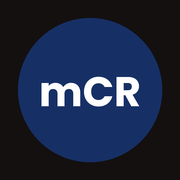
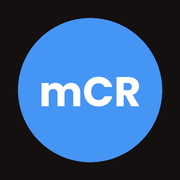
Add files via upload

diff --git a/index.html b/index.html
@@ -21,8 +21,8 @@
     --red-glow: rgba(214, 40, 40, 0.45);
     --amber: #e0a526;
     --amber-glow: rgba(224, 165, 38, 0.5);
-    --green: #22a55b;
-    --green-glow: rgba(34, 165, 91, 0.5);
+    --green: #4595F5; /* 播緊嘅顏色（藍） */
+    --green-glow: rgba(69, 149, 245, 0.5);
     --text: #f5efe9;
     --muted: #9a8f88;
   }
@@ -82,7 +82,7 @@
   }
   .now-label { font-size: 13px; color: var(--muted); display: flex; align-items: center; gap: 8px; }
   .dot { width: 8px; height: 8px; border-radius: 50%; background: var(--muted); }
-  .dot.live { background: var(--green); box-shadow: 0 0 0 4px rgba(34,165,91,0.25); }
+  .dot.live { background: var(--green); box-shadow: 0 0 0 4px rgba(69,149,245,0.25); }
   .dot.wait { background: var(--amber); }
   #nowTitle { font-size: 22px; font-weight: 600; margin: 8px 0 0; line-height: 1.35; }
   #nowTime { font-size: 14px; color: var(--muted); margin-top: 4px; }
@@ -387,7 +387,7 @@ function renderProgramme() {
       title,
       artist: current.name,
       album: 'mCR',
-      artwork: [{ src: 'artwork-playing.png', sizes: '512x512', type: 'image/png' }] // 綠色：鎖屏、頂部 Dynamic Island 會跟呢張圖嘅顏色
+      artwork: [{ src: 'artwork-playing.png', sizes: '512x512', type: 'image/png' }] // 藍色：鎖屏、頂部 Dynamic Island 會跟呢張圖嘅顏色
     });
   }
 }
